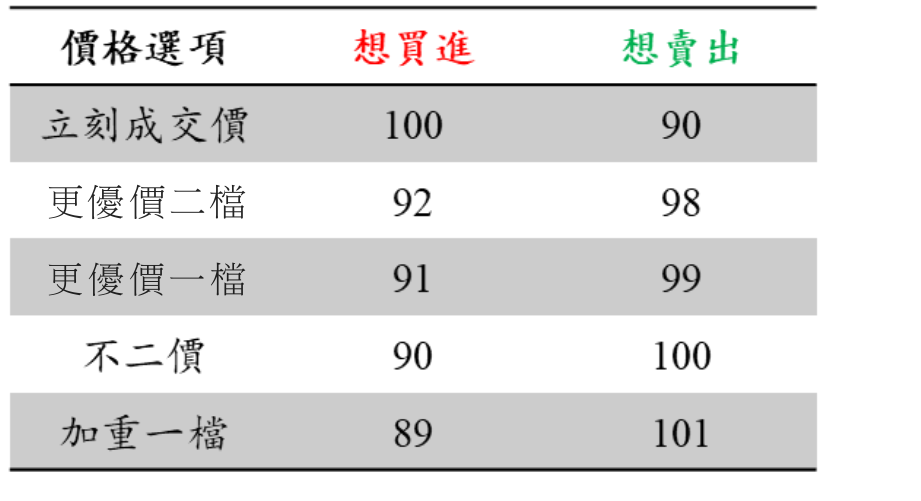
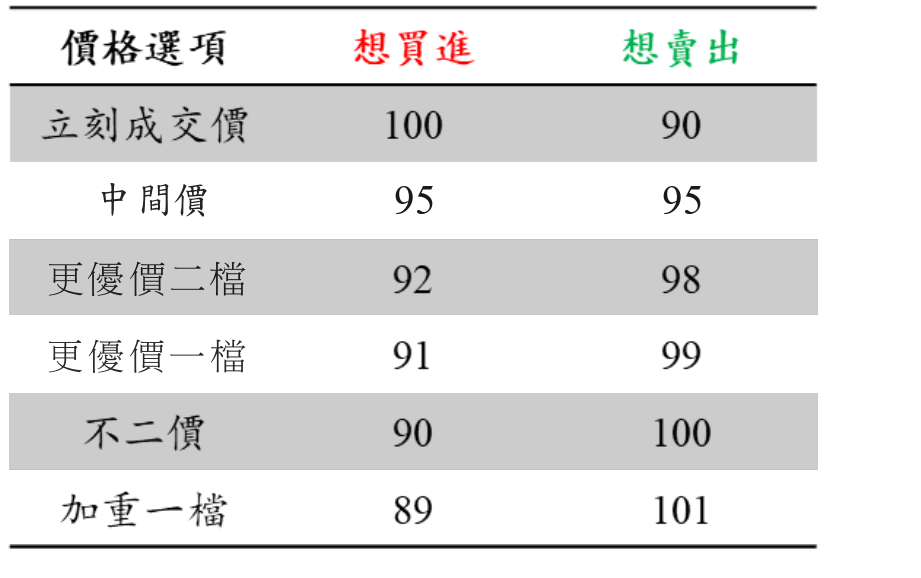
Update site content

diff --git a/content/faq/下單價格選擇指南.md b/content/faq/下單價格選擇指南.md
@@ -29,7 +29,14 @@ summary: 如何選擇最佳的掛單價格以優化成交。
 - 例子：想買＝92；想賣＝98。
 - 使用時機：想提高成交率，但仍先以限價方式嘗試吃進點差。
 
-**4）立刻成交價（市價吃單）**
+**4）中間價**
+
+- 定義：用**買進價和賣出價的中間**下單，比更優價二檔更積極，但不用付整個點差。
+- 公式：（買進價＋賣出價）÷ 2，買賣都用這個價。
+- 例子：想買＝95；想賣＝95。
+- 使用時機：想比較快成交，又不想直接吃對手價。
+
+**5）立刻成交價（市價吃單）**
 
 - 定義：直接用**對手價**下單，**立刻成交**（等同市價或極度積極的限價）。
 - 公式：買＝Best **Ask**；賣＝Best **Bid**。

diff --git a/content/選單/通用設定.md b/content/選單/通用設定.md
@@ -188,6 +188,7 @@ Google sheet設定，與使用者共同分享即時績效
 <div markdown="1">
 
 - **立刻成交價:**市價立刻成交
+- **中間價:**(買進價+賣出價)/2
 - **更優價二檔:**限價的價格+2檔
 - **更優價一檔:**限價價格+1檔
 - **不二價 :**限價單 一起排隊

diff --git a/content/選單/報價區及手動下單.md b/content/選單/報價區及手動下單.md
@@ -174,6 +174,7 @@ order: 100
 <div markdown="1">
 
 - **立刻成交價:**市價立刻成交
+- **中間價:**(買進價+賣出價)/2
 - **更優價二檔:**限價的價格+2檔
 - **更優價一檔:**限價價格+1檔
 - **不二價 :**限價單 一起排隊
